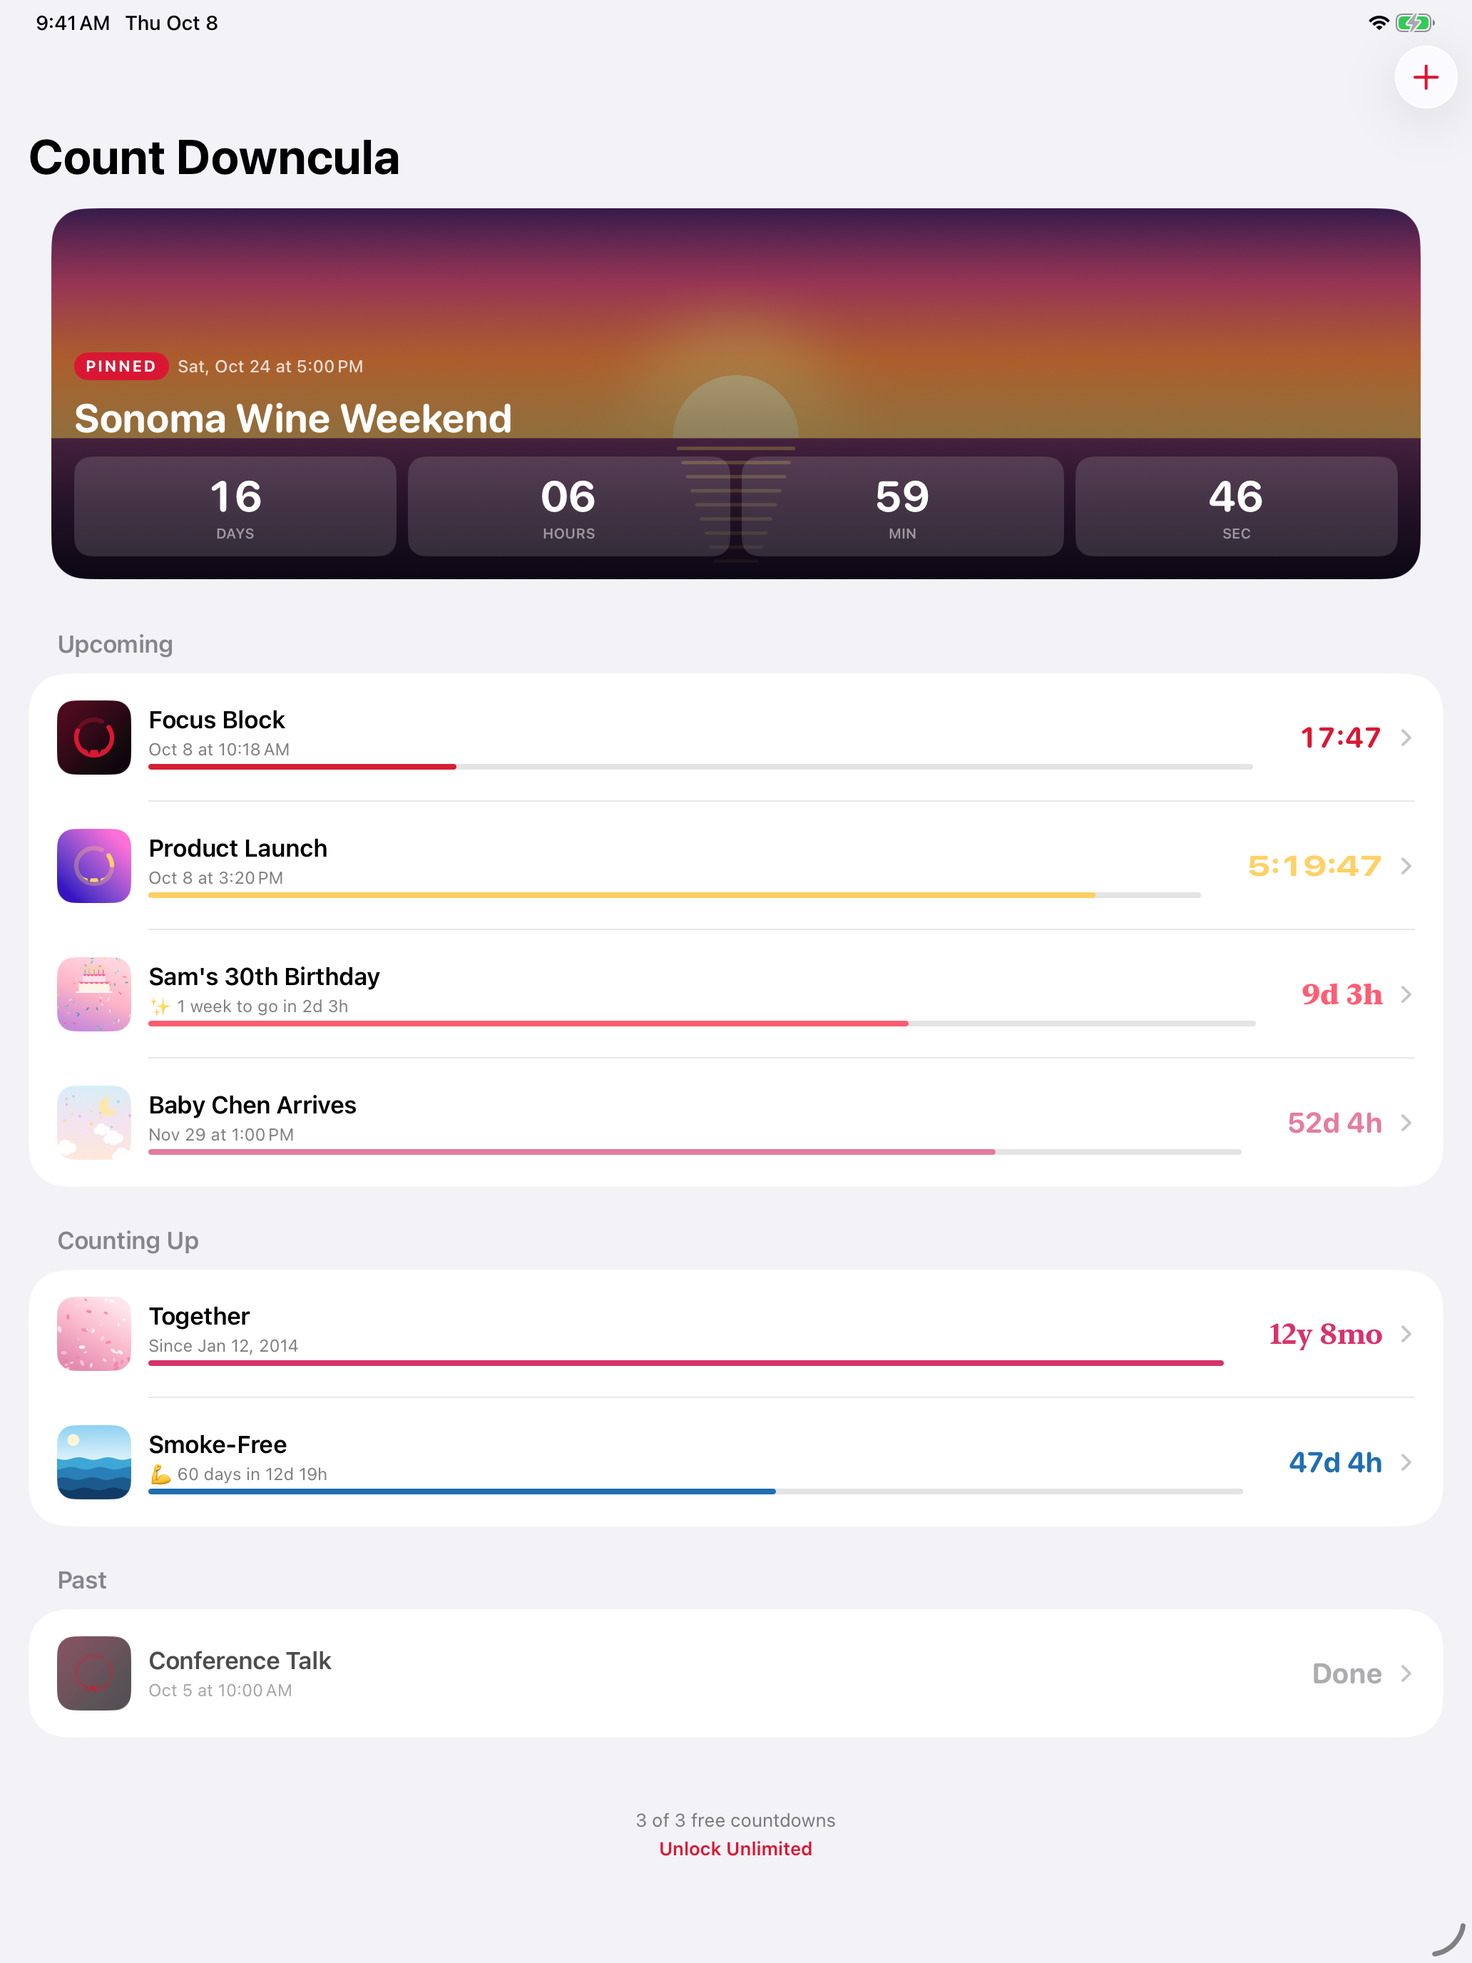
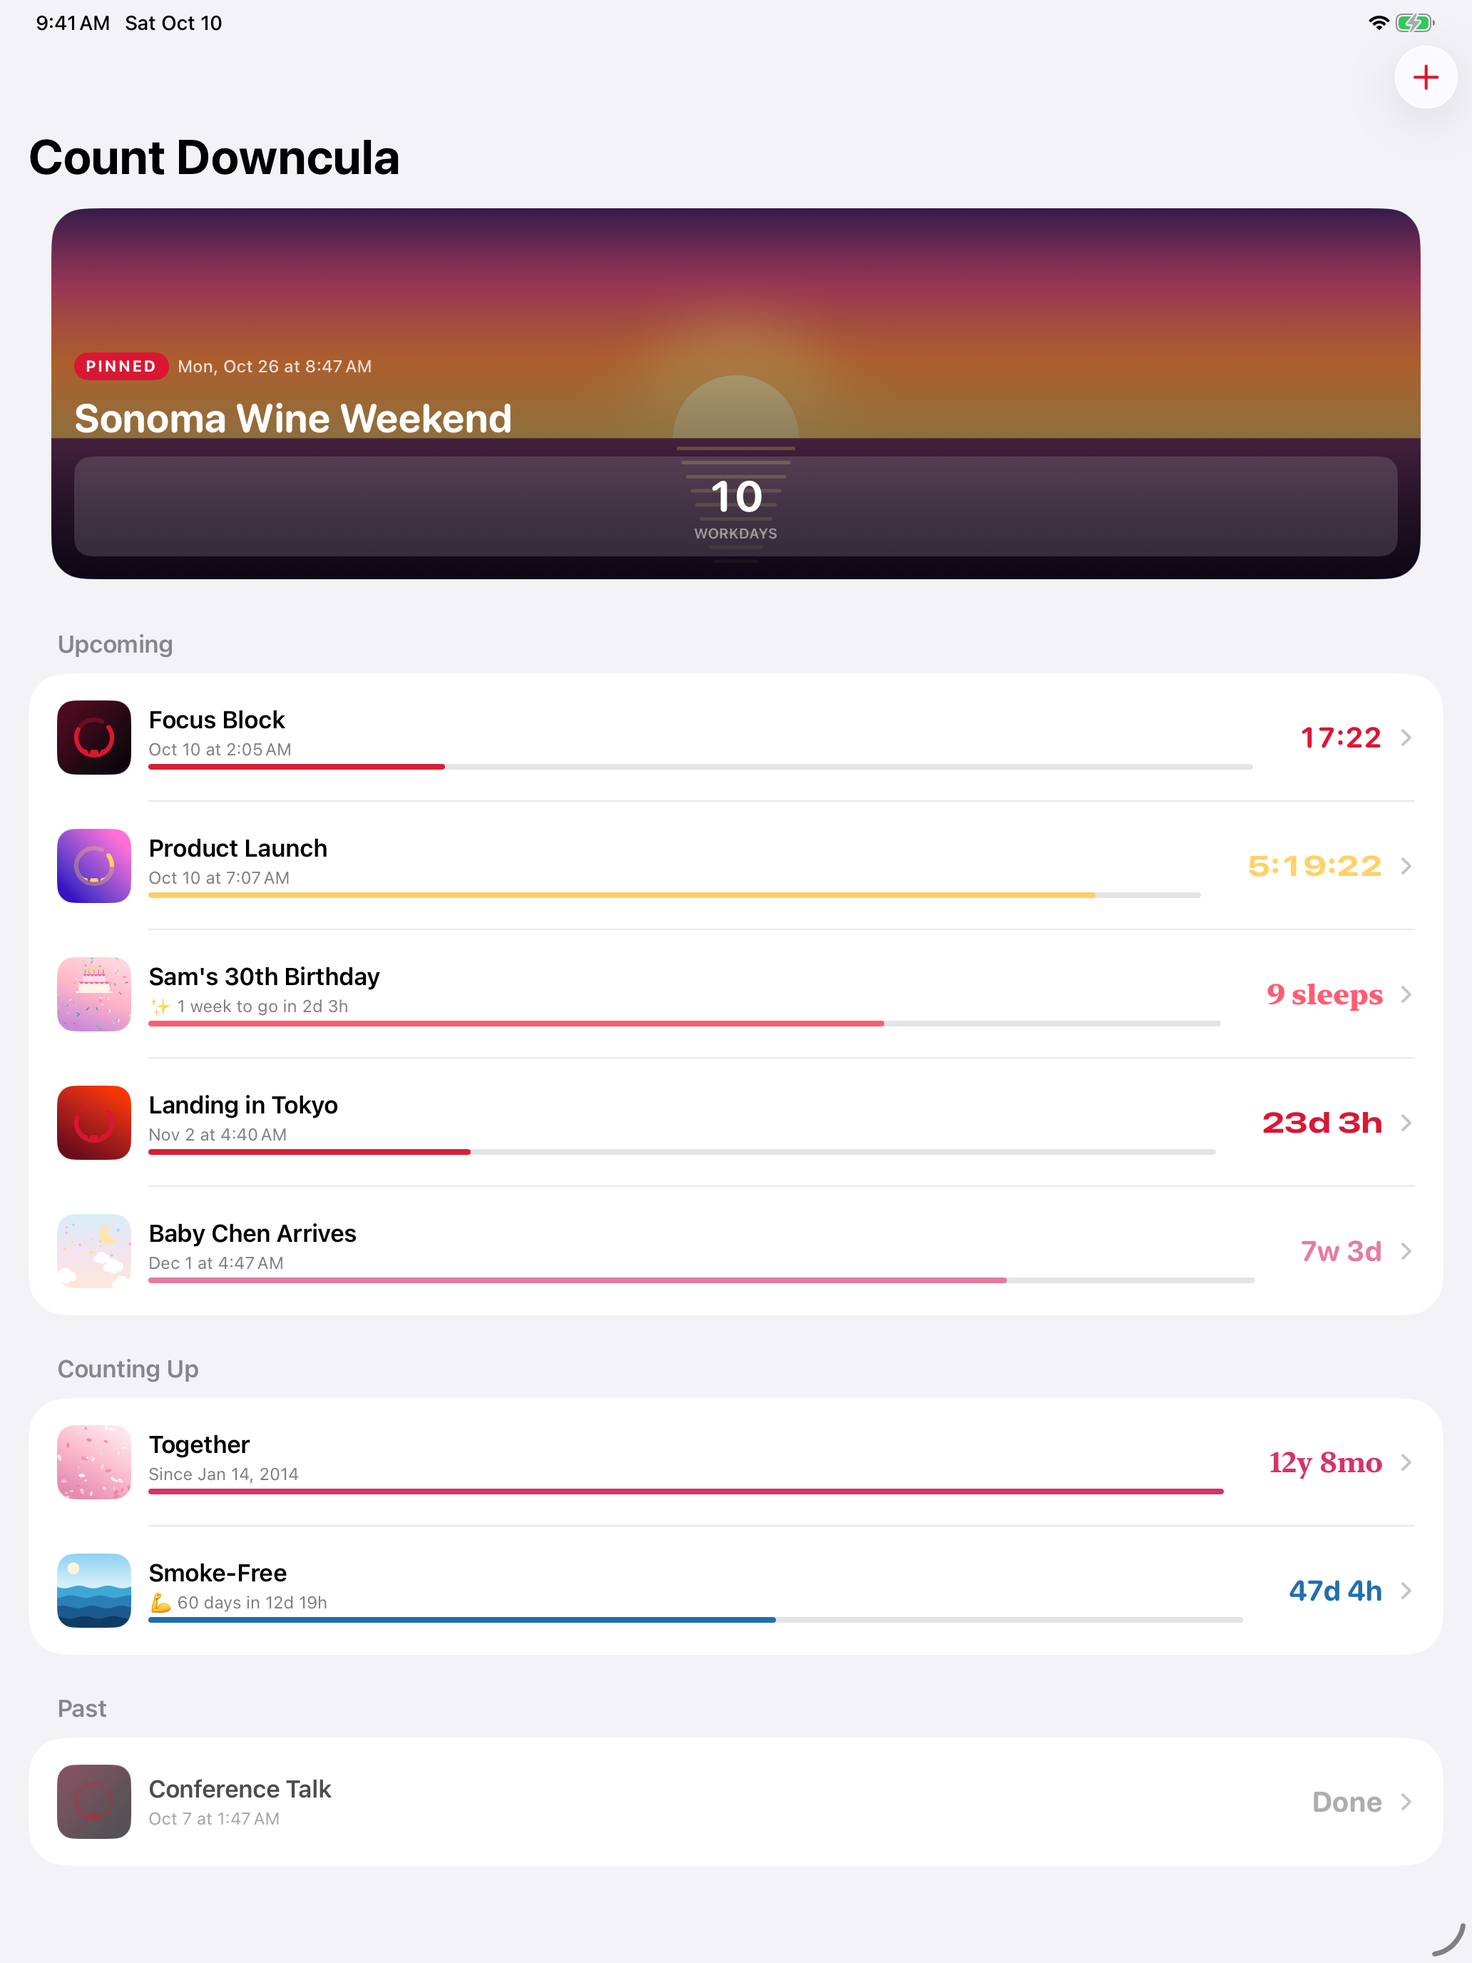
What's New for 1.2 and App Store screenshots of the new features
docs/whats-new-1.2.md has the iPhone/iPad/Watch and Mac release notes
in all six languages, plus the new Apple TV app's description, and
check-listing-lengths.py now measures them (all well under 4,000).
New simulator screenshots: the list with sleeps, workdays and weeks, a
birthday in sleeps, a date in Tokyo time and From Calendar on iPhone
(with 6.3" copies), the list and Tokyo detail on iPad, and home, full
screen and the Crypt on Apple TV. A debug-only -unlocked launch
argument hides the free tier's notes for screenshots.

diff --git a/Sources/Shared/Entitlements.swift b/Sources/Shared/Entitlements.swift
@@ -38,6 +38,11 @@ final class Entitlements {
             Task { await loadProduct() }
             return
         }
+        // Screenshots without the free tier's notes on a machine that hasn't bought Unlimited.
+        if ProcessInfo.processInfo.arguments.contains("-unlocked") {
+            isUnlocked = true
+            return
+        }
         #endif
         isUnlocked = UserDefaults.standard.bool(forKey: Self.cacheKey)
         // Purchases from other devices, Ask to Buy approvals and refunds all arrive here.

diff --git a/scripts/check-listing-lengths.py b/scripts/check-listing-lengths.py
@@ -17,4 +17,14 @@ for section in re.split(r"\n## ", text)[1:]:
         flag = "OK" if size <= limit else "TOO LONG"
         failed |= size > limit
         print(f"{language:28} {field:18} {size:5}/{limit:<5} {flag}")
+
+# What's New for each release (docs/whats-new-*.md): every fenced block is one platform's text.
+for notes in sorted(Path(__file__).resolve().parent.parent.joinpath("docs").glob("whats-new-*.md")):
+    body = notes.read_text()
+    for section in re.split(r"\n## ", body)[1:]:
+        language = section.splitlines()[0]
+        for platform, block in re.findall(r"### ([^\n]+)\n\n```\n(.*?)\n```", section, flags=re.S):
+            size, limit = len(block), 4000
+            failed |= size > limit
+            print(f"{notes.stem:14} {language[:22]:22} {platform[:28]:28} {size:5}/{limit:<5} {'OK' if size <= limit else 'TOO LONG'}")
 sys.exit(1 if failed else 0)

diff --git a/docs/whats-new-1.2.md b/docs/whats-new-1.2.md
@@ -1,0 +1,227 @@
+# What's New in 1.2
+
+Paste into App Store Connect, under the 1.2 version of each platform, in **What's New in This Version** (limit 4,000 characters). English is the base; the other languages are drafts awaiting native review, like the rest of the localization. `scripts/check-listing-lengths.py` checks the lengths.
+
+The Apple TV app is new, so it has no "What's New" text. Its description is at the end.
+
+---
+
+## English
+
+### iPhone, iPad and Apple Watch
+
+```
+The biggest update yet.
+
+• Count your way: weeks, sleeps, workdays, weekends or percent of the way there.
+• Time zones: set "landing in Tokyo at 6:40 PM" in Tokyo time and see both.
+• From Calendar and Contacts: turn upcoming events and birthdays into countdowns.
+• New repeats: every day, weekday, week, month or few days.
+• After zero: keep counting up, or look back at a recap of who counted down.
+• Widgets with buttons, Control Center controls, and an extra-large widget on iPad.
+• Plug into a TV and your countdown goes full screen, with a code for the room to join.
+• Host Pass for big events: a custom link, no branding and a bigger coffin.
+• Now on Apple TV, and in Japanese, German, Spanish, Portuguese and French.
+• Fixes, including a smoother Unlimited purchase.
+```
+
+### Mac
+
+```
+The biggest update yet.
+
+• Desktop widgets, including an Up Next list.
+• Present: put a countdown full screen on any display, for parties and launches.
+• From Calendar: turn upcoming events into countdowns.
+• Count your way: weeks, sleeps, workdays, weekends or percent of the way there.
+• Time zones: set a countdown in another city's time and see both.
+• Now in Japanese, German, Spanish, Portuguese and French.
+• Fixes, including a smoother Unlimited purchase.
+```
+
+---
+
+## Japanese (ja)
+
+### iPhone, iPad and Apple Watch
+
+```
+これまでで最大のアップデートです。
+
+• 数え方を選べます：週、「あと何回寝ると」、営業日、週末、パーセント。
+• タイムゾーン：「東京に午後6時40分着」を東京時間で設定し、両方の時刻を表示。
+• カレンダーと連絡先から：予定や誕生日をカウントダウンに。
+• 新しい繰り返し：毎日、平日、毎週、毎月、数日ごと。
+• ゼロのあとも：カウントアップを続けたり、みんなで数えた記録を振り返ったり。
+• ボタン付きウィジェット、コントロールセンター、iPadの特大ウィジェット。
+• テレビにつなぐとカウントダウンが全画面に。会場の人はコードで参加できます。
+• 大きなイベント向けのホストパス：カスタムリンク、ブランド表示なし、大きな棺。
+• Apple TVに対応。日本語、ドイツ語、スペイン語、ポルトガル語、フランス語にも対応。
+• 不具合の修正。Unlimitedの購入もよりスムーズに。
+```
+
+### Mac
+
+```
+これまでで最大のアップデートです。
+
+• デスクトップウィジェット（「次の予定」リストを含む）。
+• プレゼンテーション：パーティーや発表会で、どのディスプレイにも全画面表示。
+• カレンダーから：予定をカウントダウンに。
+• 数え方を選べます：週、「あと何回寝ると」、営業日、週末、パーセント。
+• タイムゾーン：別の都市の時刻で設定し、両方の時刻を表示。
+• 日本語、ドイツ語、スペイン語、ポルトガル語、フランス語に対応。
+• 不具合の修正。Unlimitedの購入もよりスムーズに。
+```
+
+---
+
+## German (de)
+
+### iPhone, iPad and Apple Watch
+
+```
+Das bisher größte Update.
+
+• Zähl auf deine Art: Wochen, Mal schlafen, Arbeitstage, Wochenenden oder Prozent.
+• Zeitzonen: „Landung in Tokio um 18:40“ in Tokioter Zeit, mit beiden Uhrzeiten.
+• Aus Kalender und Kontakten: Termine und Geburtstage werden zu Countdowns.
+• Neue Wiederholungen: täglich, werktags, wöchentlich, monatlich oder alle paar Tage.
+• Nach null: weiter hochzählen oder auf alle zurückblicken, die mitgezählt haben.
+• Widgets mit Tasten, Steuerelemente im Kontrollzentrum, extragroßes Widget auf dem iPad.
+• Am Fernseher läuft dein Countdown im Vollbild, mit einem Code zum Mitzählen.
+• Host-Pass für große Anlässe: eigener Link, ohne Branding, größerer Sarg.
+• Jetzt auf Apple TV und auf Japanisch, Deutsch, Spanisch, Portugiesisch und Französisch.
+• Fehlerbehebungen, darunter ein reibungsloserer Unlimited-Kauf.
+```
+
+### Mac
+
+```
+Das bisher größte Update.
+
+• Schreibtisch-Widgets, auch mit einer Demnächst-Liste.
+• Präsentieren: ein Countdown im Vollbild auf jedem Bildschirm, für Partys und Launches.
+• Aus dem Kalender: Termine werden zu Countdowns.
+• Zähl auf deine Art: Wochen, Mal schlafen, Arbeitstage, Wochenenden oder Prozent.
+• Zeitzonen: ein Countdown in der Zeit einer anderen Stadt, mit beiden Uhrzeiten.
+• Jetzt auf Japanisch, Deutsch, Spanisch, Portugiesisch und Französisch.
+• Fehlerbehebungen, darunter ein reibungsloserer Unlimited-Kauf.
+```
+
+---
+
+## Spanish (es)
+
+### iPhone, iPad and Apple Watch
+
+```
+La mayor actualización hasta ahora.
+
+• Cuenta a tu manera: semanas, noches, días laborables, fines de semana o porcentaje.
+• Zonas horarias: «aterrizo en Tokio a las 18:40» en hora de Tokio, con ambas horas.
+• Desde Calendario y Contactos: eventos y cumpleaños convertidos en cuentas atrás.
+• Nuevas repeticiones: cada día, cada día laborable, semana, mes o cada pocos días.
+• Después de cero: sigue contando hacia arriba o repasa quién contó contigo.
+• Widgets con botones, controles en el Centro de control y widget extragrande en iPad.
+• Conéctalo a una tele y tu cuenta atrás ocupa la pantalla, con un código para unirse.
+• Host Pass para grandes eventos: enlace propio, sin marca y un ataúd más grande.
+• Ya en Apple TV, y en japonés, alemán, español, portugués y francés.
+• Correcciones, incluida una compra de Unlimited más fluida.
+```
+
+### Mac
+
+```
+La mayor actualización hasta ahora.
+
+• Widgets de escritorio, incluida una lista de lo próximo.
+• Presentar: una cuenta atrás a pantalla completa en cualquier pantalla, para fiestas y lanzamientos.
+• Desde Calendario: eventos convertidos en cuentas atrás.
+• Cuenta a tu manera: semanas, noches, días laborables, fines de semana o porcentaje.
+• Zonas horarias: una cuenta atrás en la hora de otra ciudad, con ambas horas.
+• Ya en japonés, alemán, español, portugués y francés.
+• Correcciones, incluida una compra de Unlimited más fluida.
+```
+
+---
+
+## Brazilian Portuguese (pt-BR)
+
+### iPhone, iPad and Apple Watch
+
+```
+A maior atualização até agora.
+
+• Conte do seu jeito: semanas, noites, dias úteis, fins de semana ou porcentagem.
+• Fusos horários: "pouso em Tóquio às 18h40" no horário de Tóquio, com os dois horários.
+• Do Calendário e dos Contatos: eventos e aniversários viram contagens.
+• Novas repetições: todo dia, dia útil, semana, mês ou a cada poucos dias.
+• Depois do zero: continue contando para cima ou relembre quem contou junto.
+• Widgets com botões, controles na Central de Controle e widget extragrande no iPad.
+• Ligue numa TV e sua contagem vai para a tela cheia, com um código para entrar.
+• Host Pass para grandes eventos: link próprio, sem marca e um caixão maior.
+• Agora na Apple TV, e em japonês, alemão, espanhol, português e francês.
+• Correções, incluindo uma compra do Unlimited mais tranquila.
+```
+
+### Mac
+
+```
+A maior atualização até agora.
+
+• Widgets na mesa, incluindo uma lista do que vem a seguir.
+• Apresentar: uma contagem em tela cheia em qualquer tela, para festas e lançamentos.
+• Do Calendário: eventos viram contagens.
+• Conte do seu jeito: semanas, noites, dias úteis, fins de semana ou porcentagem.
+• Fusos horários: uma contagem no horário de outra cidade, com os dois horários.
+• Agora em japonês, alemão, espanhol, português e francês.
+• Correções, incluindo uma compra do Unlimited mais tranquila.
+```
+
+---
+
+## French (fr)
+
+### iPhone, iPad and Apple Watch
+
+```
+La plus grosse mise à jour à ce jour.
+
+• Comptez à votre façon : semaines, dodos, jours ouvrés, week-ends ou pourcentage.
+• Fuseaux horaires : « atterrissage à Tokyo à 18 h 40 » à l’heure de Tokyo, avec les deux heures.
+• Depuis Calendrier et Contacts : événements et anniversaires deviennent des comptes à rebours.
+• Nouvelles répétitions : chaque jour, jour ouvré, semaine, mois ou tous les quelques jours.
+• Après zéro : continuez à compter, ou revoyez qui a compté avec vous.
+• Widgets avec boutons, commandes du Centre de contrôle et widget très grand sur iPad.
+• Branchez une télé et votre compte à rebours passe en plein écran, avec un code pour rejoindre.
+• Host Pass pour les grands événements : lien personnalisé, sans marque et un plus grand cercueil.
+• Désormais sur Apple TV, et en japonais, allemand, espagnol, portugais et français.
+• Corrections, dont un achat d’Unlimited plus fluide.
+```
+
+### Mac
+
+```
+La plus grosse mise à jour à ce jour.
+
+• Widgets de bureau, avec une liste « À venir ».
+• Présenter : un compte à rebours en plein écran sur n’importe quel écran, pour les fêtes et les lancements.
+• Depuis Calendrier : les événements deviennent des comptes à rebours.
+• Comptez à votre façon : semaines, dodos, jours ouvrés, week-ends ou pourcentage.
+• Fuseaux horaires : un compte à rebours à l’heure d’une autre ville, avec les deux heures.
+• Désormais en japonais, allemand, espagnol, portugais et français.
+• Corrections, dont un achat d’Unlimited plus fluide.
+```
+
+---
+
+## Apple TV description (English; new platform)
+
+```
+Put your countdowns on the big screen. Count Downcula on Apple TV shows the countdowns you've made on your iPhone, iPad or Mac, synced through iCloud, full screen for the whole room: huge digits in each countdown's own style, the last ten seconds as one giant number, and confetti at zero. A code in the corner lets everyone in the room count down with you from their phones.
+
+Browse the Crypt for holidays, eclipses and big games, and add any of them in a press. Left and right on the remote step through your countdowns, and the Top Shelf shows what's coming up.
+
+Count Downcula Unlimited is one purchase across iPhone, iPad, Apple Watch, Mac and Apple TV.
+```

diff --git a/design/app-store/README.md b/design/app-store/README.md
@@ -4,9 +4,10 @@ Upload these on the app's version page in App Store Connect, under **Previews an
 
 | Folder | Device slot | Size | Screens |
 |---|---|---|---|
-| `iphone-6.3/` | iPhone with Dynamic Island (medium display) | 1206 × 2622 | List, countdown detail, date pool, the Crypt, appearance editor (occasion scenes), count-up |
-| `iphone/` | iPhone 6.9" (if App Store Connect asks for it) | 1320 × 2868 | The same six, at full size |
-| `ipad/` | iPad 13" Display | 2064 × 2752 | List, countdown detail, the Crypt |
+| `iphone-6.3/` | iPhone with Dynamic Island (medium display) | 1206 × 2622 | List (with sleeps, workdays and weeks), countdown detail, date pool, the Crypt, appearance editor (occasion scenes), count-up, a birthday in sleeps, a date in Tokyo time, From Calendar |
+| `iphone/` | iPhone 6.9" (if App Store Connect asks for it) | 1320 × 2868 | The same nine, at full size |
+| `ipad/` | iPad 13" Display | 2064 × 2752 | List, countdown detail, the Crypt, a date in Tokyo time |
+| `appletv/` | Apple TV | 1920 × 1080 | Home, a countdown full screen, the Crypt |
 | `mac/` | Mac | 1440 × 900 | Menu bar list and detail, editor, free tier and Unlimited |
 | `watch/` | Apple Watch | 416 × 496 | Watch face with complications, list, detail |
 | `iap-review-paywall.png` | In-app purchase → Review Information → Screenshot | 1206 × 2622 | The Count Downcula Unlimited paywall (for Apple's reviewer only) |
@@ -19,7 +20,7 @@ The iPhone and iPad shots come from the iOS Simulator with the debug demo data:
 
 1. Build the `CountdownulaiOS` scheme (Debug) for an iPhone 17 Pro Max or iPad Pro 13-inch simulator.
 2. `xcrun simctl status_bar booted override --time 9:41 --dataNetwork wifi --wifiBars 3 --cellularBars 4 --batteryState charged --batteryLevel 100`
-3. Launch with `-seedDemo -localOnly`, then `xcrun simctl io booted screenshot <file>.png`.
+3. Launch with `-seedDemo -localOnly -unlocked`, then `xcrun simctl io booted screenshot <file>.png`. `-unlocked` (debug builds only) hides the free tier's notes; `-openImport calendar` opens From Calendar (grant access first with `xcrun simctl privacy booted grant calendar com.countdownula.app`).
 
 The date pool and the Crypt need a server. Run one locally (`server/`, `npx next dev --port 4319` against a local MongoDB), seed the Crypt with `scripts/seed-crypt.mjs`, and add `-linkServer http://localhost:4319` to the launch arguments. The demo's "Baby Chen Arrives" has a date pool: share its live link from the detail screen, add a few guesses with `POST /api/countdowns/<slug>/pool/guesses`, then guess from the app so one row reads "(you)".
 
@@ -29,4 +30,6 @@ The Mac shots are the Debug build's own windows, captured with `screencapture -l
 
 The watch shots come from an Apple Watch Series 11 (46mm) simulator running the `CountdownulaWatch` scheme with `-seedDemo -localOnly`. The watch-face shot was taken on a real watch and is shared with `docs/screenshots/watch-face.png`.
 
-Not included yet: a Lock Screen Live Activity and Home Screen widgets. The simulator's lock screen shows a placeholder date and hides seconds, so take those on a real iPhone.
+The Apple TV shots come from an Apple TV 4K (at 1080p) simulator running the `CountdownculaTV` scheme with `-localOnly -seedDemo`; `-present` opens Next Up full screen and `-crypt` opens the Crypt.
+
+Not included yet: Mac shots of Present and From Calendar (the Debug Mac app shares the installed app's data, so take them with the store moved aside, as above), a Lock Screen Live Activity and Home Screen widgets. The simulator's lock screen shows a placeholder date and hides seconds, so take those on a real iPhone.
